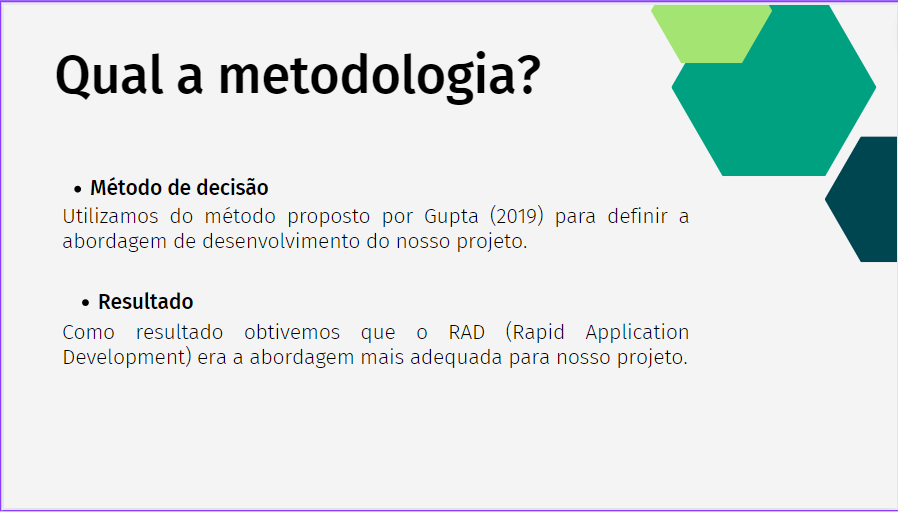
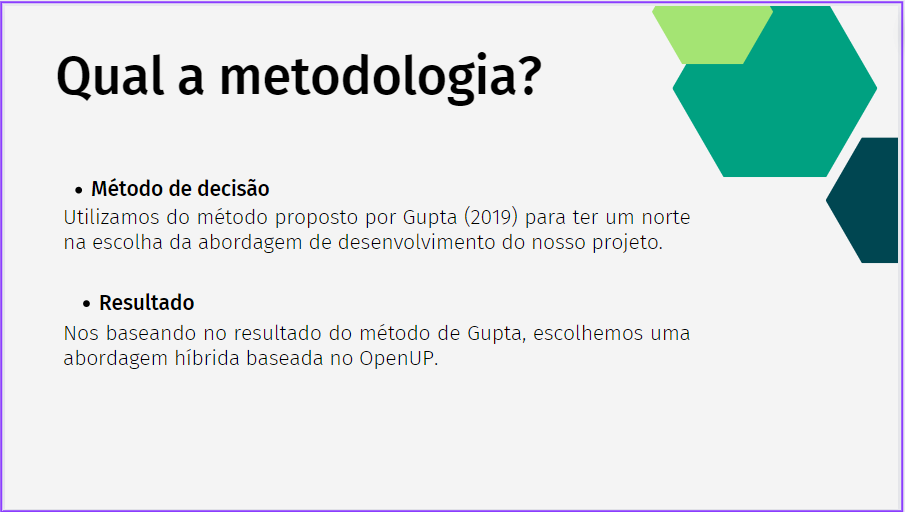
mudanças no documento de visão do produto e projeto

diff --git a/gitpages/docs/documentos/visao-do-produto-e-projeto.md b/gitpages/docs/documentos/visao-do-produto-e-projeto.md
@@ -101,43 +101,52 @@ Por fim, queremos garantir que o processo de gerenciamento de pagamentos e divis
 
 | Papel | Atribuições | Responsável | Participantes |
 |-------|-------------|-------------|---------------|
-| Desenvolvedor | Codificar o produto, codificar testes unitários, realizar refatoração | Eduardo | Pedro, João, Gabriel, Siqueira |
-| Product Owner | Atualizar o escopo do produto, organizar o escopo das sprints, validar as entregas | Pedro | Siqueira, Eduardo |
-| Analista de Qualidade | Garantir a qualidade do produto, garantir o cumprimento do conceito de pronto, realizar inspeções de código | Gabriel | João, Siqueira |
-| Design e UX | Responsável por criar a identidade visual da plataforma, bem como garantir uma experiência de usuário intuitiva e agradável | João | Pedro, Eduardo |
+| Arquiteto | Conduzir o design técnico do sistema documentando os aspectos arquiteturalmente significativos do sistema como visões que descrevem requisitos, design, implementação e distribuição | Eduardo | Eduardo |
+| Gerente de projeto | Conduzir o time, avaliar os riscos e garantir que o projeto cumpra a necessidade dos stakeholders | Pedro | Pedro |
+| Analista | Identificar, detalhar e consolidar requisitos, ajudar os stakeholders a escrever estórias | João | Todos |
+| Testador | Criar casos de teste, scripts de teste e os executar de acordo com os critérios de aceitação de uma estória | Mateus | Todos |
+| Desenvolvedor |Implementar o projeto em si, conversar com os outros papéis para seguir o planejamento e criar o produto certo | Gabriel | Todos |
+| Stakeholder | Identificar requisitos, validar entregas, fornecer feedback, aprovar iterações e tomar decisões de negócios | Lucas Boaventura | Lucas, ChatGPT, Prof. George |
 
 ## 2.2	Planejamento das Fases e/ou Iterações do Projeto
 
-| Sprint | Produto (entrega) | Data Início | Data Fim |
+| Fase | Produto (entrega) | Data Início | Data Fim |
 |-------|-------------|-------------|---------------|
-| Sprint 1 | MVP e Planejamento do Projeto | 25/04/23 | 08/05/23 |
-| Sprint 2 | Implementação da interface básica da plataforma web e mobile (login e cadastro) | 09/05/23 | 22/05/23 |
-| Sprint 3 | Implementação da funcionalidade de gerenciamento de viagens (CRUD’s) | 23/05/23 | 05/06/23 |
-| Sprint 4 | Implementação da funcionalidade de gerenciamento de pagamentos e divisão de valores | 06/06/23 | 19/06/23 |
+| Fase de concepção | Documento de visão do produto, planejamento inicial de riscos | 10/04/23 | 27/04/23 |
+| Fase de elaboração | Arquitetura do projeto e Backlog | 28/05/23 | 25/05/23 |
+| Fase de construção | Implementação das funcionalidades do produto | 26/05/23 | 10/07/23 |
+| Fase de transição | Produto em produção | 11/07/23 | 18/07/23 |
 
 ## 2.3	Matriz de Comunicação
 
 | Descrição | Área/Envolvidos | Periodicidade | Produtos Gerados |
 |-------|-------------|-------------|---------------|
-| Acompanhamento das Atividades em Andamento; Acompanhamento dos Riscos, Compromissos, Ações Pendentes, Indicadores | Toda equipe | Quinzenal (e em dias de aula) | Ata de reunião; Relatório de situação do projeto |
-| Comunicar situação do projeto | Toda equipe; Professor | Quinzenal | Ata de reunião; Relatório de Situação do Projeto |
+| Reunião de planejamento de iteração | Toda equipe, Stakeholder | A cada duas semanas | Plano de iteração, backlog atualizado |
+| Reunião de alinhamento | Toda equipe | Uma vez por semana | Nenhum artefato, mas a equipe deve estar mais alinhada sobre o status das tarefas de cada pessoa do grupo |
+| Revisão de iteração | Toda equipe | A cada duas semanas | Backlog atualizado, lista de riscos atualizada |
+| Retrospectiva de iteração | Toda equipe | A cada duas semanas | Documento de visão do projeto atualizado (lições aprendidas) |
 
 ## 2.4	Gerenciamento de Riscos
 
-No contexto do projeto de desenvolvimento do site/app de gerenciamento de viagens, alguns dos riscos que podem ser identificados incluem problemas de segurança de dados, problemas de escalabilidade, problemas de compatibilidade com diferentes dispositivos e navegadores, e problemas de integração com serviços externos.
-
-A cada ciclo de sprint, é importante avaliar os riscos existentes e atualizar a lista de riscos, a fim de garantir que os riscos sejam monitorados e gerenciados adequadamente. Isso permite que a equipe do projeto possa agir rapidamente no caso de um risco se materializar, minimizando o impacto no projeto. Os riscos devem ser registrados no painel de controle do projeto e no plano do projeto, de forma a garantir que sejam levados em consideração em todas as fases do projeto.
-
+- Trancamento de membros do projeto
+- Modificação do Escopo
+- A equipe não conseguiu cumprir os prazos
+- Imprevistos diversos
 
 ## 2.5	Critérios de Replanejamento
 
-No projeto de gerenciamento de viagens, os critérios de replanejamento devem ser estabelecidos desde o início do projeto. Alguns possíveis critérios incluem mudanças significativas nos requisitos do projeto, atrasos na execução de tarefas, mudanças na disponibilidade de recursos, entre outros. Caso um ou mais critérios sejam atendidos, o time do projeto deve avaliar e decidir se é necessário realizar um replanejamento, levando em consideração os impactos e possíveis alternativas. É importante que a equipe mantenha uma comunicação clara e transparente com todas as partes interessadas sobre as decisões de replanejamento, a fim de garantir o sucesso do projeto.
+Acontecerá o replanejamento do projeto caso ocorra:
+
+- Não cumprimento dos prazos: Causará um replanejamento do cronograma das fases.
+- Alterações graves de requisitos durante a fase de elaboração: Teremos mais iterações na fase de elaboração, causando o replanejamento do cronograma das fases.
+- Saída de dois membros ou mais da equipe: Acarretará em diminuição do escopo.
+
 
 # PROCESSO DE DESENVOLVIMENTO DE SOFTWARE
 
 ## 3.1 Abordagem de desenvolvimento
 
-Para definir a abordagem de desenvolvimento de software que o projeto irá seguir, nos baseamos na metodologia proposta por Gupta (2019). Portanto foram respondidas questões sobre tópicos pré determinados para definir a abordagem que mais se adequa à equipe e ao projeto. Os tópicos são:
+Para definir a abordagem de desenvolvimento de software que o projeto irá seguir, nos **baseamos** na metodologia proposta por Gupta (2019), tomando os resultados dela **somente como um norte**. Portanto foram respondidas questões sobre tópicos pré determinados para definir a abordagem que mais se adequa à equipe e ao projeto. Os tópicos são:
 
 - Requisitos;
 - Equipe de desenvolvimento;
@@ -225,9 +234,11 @@ Obs: Considere que, em resultados, cada caracter ‘+’ é a quantidade de veze
 - Incremental 6+
 - Evolutivo 7+
 - Espiral 9+
-- ### RAD 12+
+- **RAD 12+**
 
 Ao analisar os resultados individuais de cada tópico, foi obtida a metodologia de desenvolvimento mais adequada, o RAD (Rapid Application Development). Esta é uma abordagem ágil e tem como pontos característicos ser centrada no usuário e no design do produto, permitindo uma prototipagem mais rápida e uma entrega iterativa.
+
+Levando em conta as peculiaridades da disciplina, decidimos desconsiderar o RAD e utilizar uma **abordagem híbrida baseada no OpenUP**. Pois assim, conseguimos trabalhar melhor os requisitos no início de nosso projeto e adequar nossas entregas com a disciplina. A estruturação de nossos requisitos será feita em **User Stories**.
 
 
 ## 3.2 Escolhas de Engenharia de Requisitos
@@ -255,7 +266,7 @@ Ao fazer a análise do projeto, os facetas resultantes foram:
 
 Conforme a divisão das atividades de Engenharia de Requisitos acima (MARSICANO, 2023), integramos as atividades de requisitos à metodologia de desenvolvimento de software do projeto, definida na seção 3.1.
 
-![Integração RAD - ER](assets/RAD-e-Requisitos.jpeg)
+![Integração OpenUP - ER](assets/OpenUP-e-ER.png)
 
 
 # LIÇÕES APRENDIDAS
